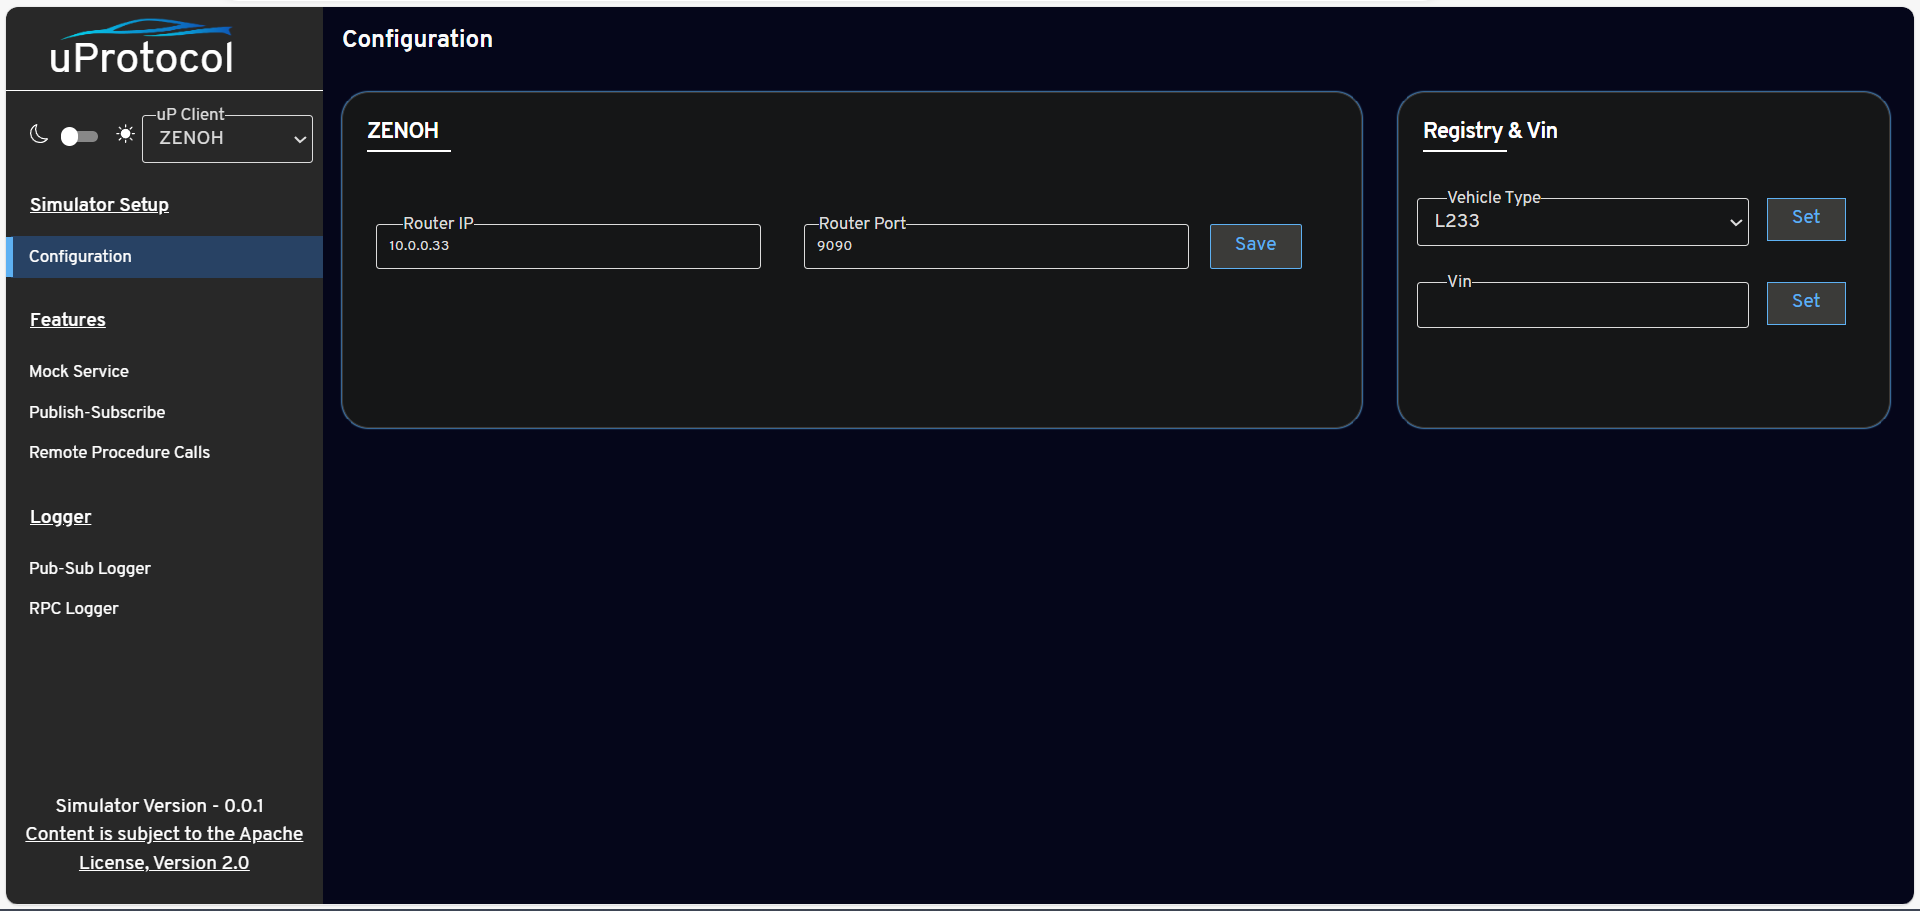
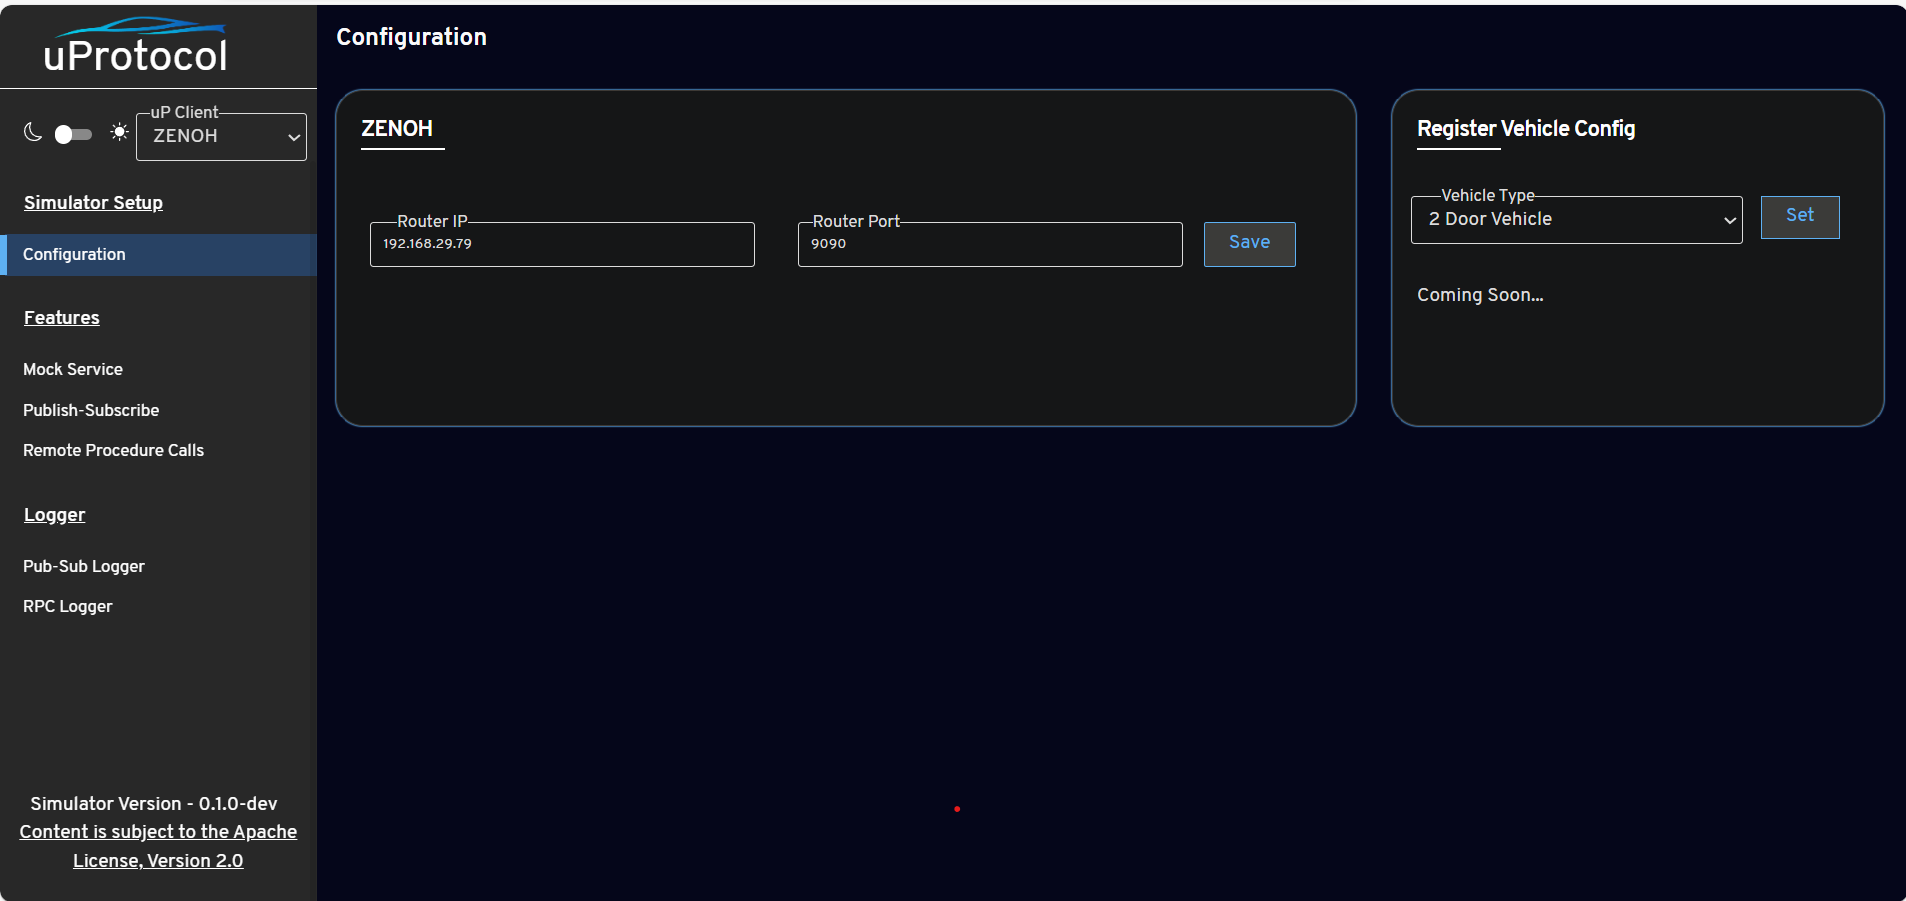
Integrate Zenoh module (#22)
* Integrate up-client-zenoh

* Add Zenoh configuration steps to README

diff --git a/simulator/ui/static/js/configuration.js b/simulator/ui/static/js/configuration.js
@@ -26,16 +26,12 @@ function saveConfig() {
         if (document.querySelector('#utransportConfig').value == "SOME/IP") {
             localStorage.setItem("ip_local", document.getElementById("localip").value)
             localStorage.setItem("ip_multicast", document.getElementById("multicastip").value)
-            console.log('before mci config set')
             socket.emit("set_someip_config", document.getElementById("localip").value, document.getElementById("multicastip").value)
         } else if (document.querySelector('#utransportConfig').value == "ZENOH") {
+            showSpinner()
             localStorage.setItem("zenoh_router_ip", document.getElementById("zenohrouterip").value)
             localStorage.setItem("zenoh_router_port", document.getElementById("zenohrouterport").value)
-
-            console.log('before zenoh router ip')
-             console.log('zenoh before emit')
-             console.log(document.getElementById("zenohrouterport").value)
-
+            console.log(document.getElementById("zenohrouterport").value)
             socket.emit("set_zenoh_config", document.getElementById("zenohrouterip").value, document.getElementById("zenohrouterport").value)
         }
 

diff --git a/simulator/ui/templates/includes/sidebar.html b/simulator/ui/templates/includes/sidebar.html
@@ -92,8 +92,8 @@
                         </option>
 <!--                        <option value="SOME/IP">SOME/IP-->
 <!--                        </option>-->
-<!--                        <option value="ZENOH">ZENOH-->
-<!--                        </option>-->
+                        <option value="ZENOH">ZENOH
+                        </option>
 
 
                     </select>

diff --git a/simulator/ui/static/js/common.js b/simulator/ui/static/js/common.js
@@ -161,6 +161,10 @@ function setupSocket() {
         onTopicUpdate(json_res.json_data, json_res.original_json_data, json_res.topic)
     });
 
+    socket.on('onSetTransport', function (json_res) {
+        hideSpinner()
+    });
+
 };
 
 function showSpinner() {

diff --git a/simulator/core/transport_layer.py b/simulator/core/transport_layer.py
@@ -19,12 +19,14 @@ SPDX-FileType: SOURCE
 SPDX-License-Identifier: Apache-2.0
 """
 
-
+import json
 from concurrent.futures import Future
 
 from uprotocol.proto.uattributes_pb2 import CallOptions
 from uprotocol.proto.umessage_pb2 import UMessage
 from uprotocol.proto.upayload_pb2 import UPayload
+from uprotocol.proto.uri_pb2 import UAuthority
+from uprotocol.proto.uri_pb2 import UEntity
 from uprotocol.proto.uri_pb2 import UUri
 from uprotocol.proto.ustatus_pb2 import UStatus
 from uprotocol.transport.ulistener import UListener
@@ -69,6 +71,19 @@ class TransportLayer:
     def _update_instance(self):
         if self.__utransport == "BINDER":
             self.__instance = AndroidBinder()
+        elif self.__utransport == "ZENOH":
+            import zenoh
+            zenoh_ip = self.__ZENOH_IP
+            zenoh_port = self.__ZENOH_PORT
+            conf = zenoh.Config()
+            if zenoh_ip is not None:
+                endpoint = [f"tcp/{zenoh_ip}:{zenoh_port}"]
+                print(f"EEE: {endpoint}")
+                conf.insert_json5(zenoh.config.MODE_KEY, json.dumps("client"))
+                conf.insert_json5(zenoh.config.CONNECT_KEY, json.dumps(endpoint))
+            from up_client_zenoh.upclientzenoh import UPClientZenoh
+            self.__instance = UPClientZenoh(conf, UAuthority(name="test_authority"),
+                                            UEntity(name="test_entity", version_major=1))
 
     def invoke_method(self, topic: UUri, payload: UPayload, calloptions: CallOptions) -> Future:
         return self.__instance.invoke_method(topic, payload, calloptions)
@@ -91,3 +106,5 @@ class TransportLayer:
     def create_topic(self, entity, topics, listener):
         if self.__utransport == "BINDER":
             return self.__instance.create_topic(entity, topics, listener)
+        else:
+            return True

diff --git a/simulator/run.py b/simulator/run.py
@@ -21,10 +21,9 @@ SPDX-License-Identifier: Apache-2.0
 
 import os
 import sys
+import time
 
-sys.path.insert(
-    0, os.path.abspath(os.path.join(os.path.dirname(__file__), ".."))
-)
+sys.path.insert(0, os.path.abspath(os.path.join(os.path.dirname(__file__), "..")))
 
 from flask import request
 from flask_socketio import SocketIO
@@ -63,6 +62,8 @@ def set_someip_config(localip, multicastip):
 @socketio.on(CONSTANTS.API_SET_ZENOH_CONFIG, namespace=CONSTANTS.NAMESPACE)
 def set_zenoh_config(routerip, port):
     transport_layer.set_zenoh_config(routerip, port)
+    time.sleep(1)
+    socketio.emit(CONSTANTS.CALLBACK_ON_SET_TRANSPORT, '', namespace=CONSTANTS.NAMESPACE, )
 
 
 @socketio.on(CONSTANTS.API_SUBSCRIBE, namespace=CONSTANTS.NAMESPACE)

diff --git a/simulator/utils/constant.py b/simulator/utils/constant.py
@@ -66,6 +66,7 @@ CALLBACK_PUBLISH_STATUS_FAILED = "publish_callback_fail"
 CALLBACK_EXCEPTION_PUBLISH = "onPubException"
 CALLBACK_ONEVENT_RECEIVE = "onTopicUpdate"
 CALLBACK_GENERIC_ERROR = "onError"
+CALLBACK_ON_SET_TRANSPORT = "onSetTransport"
 
 KEY_MESSAGE = "message"
 KEY_CODE = "code"
